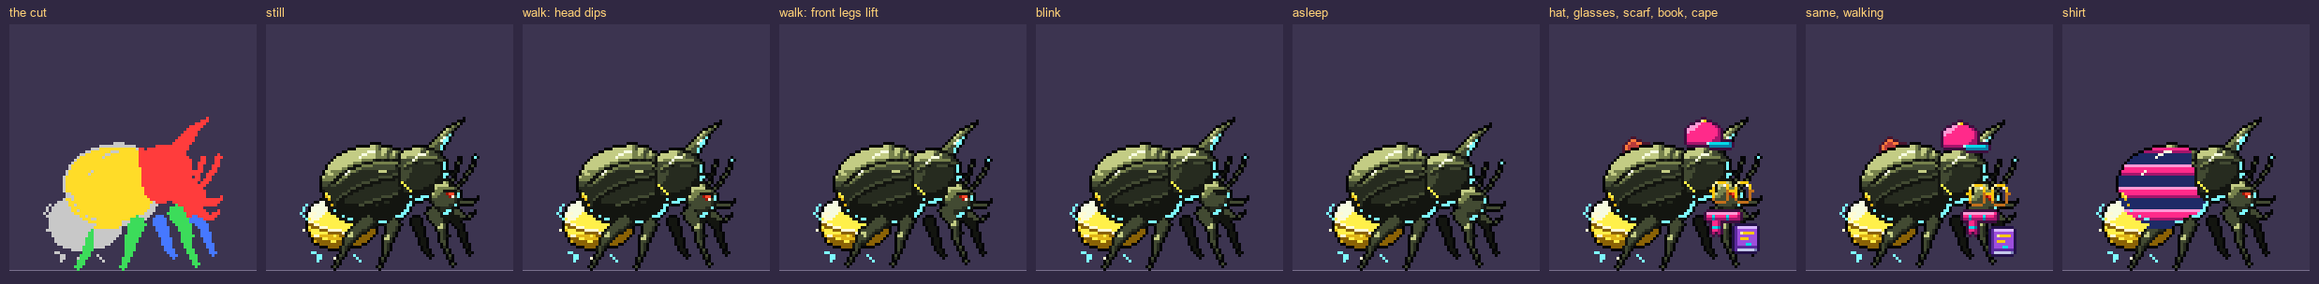
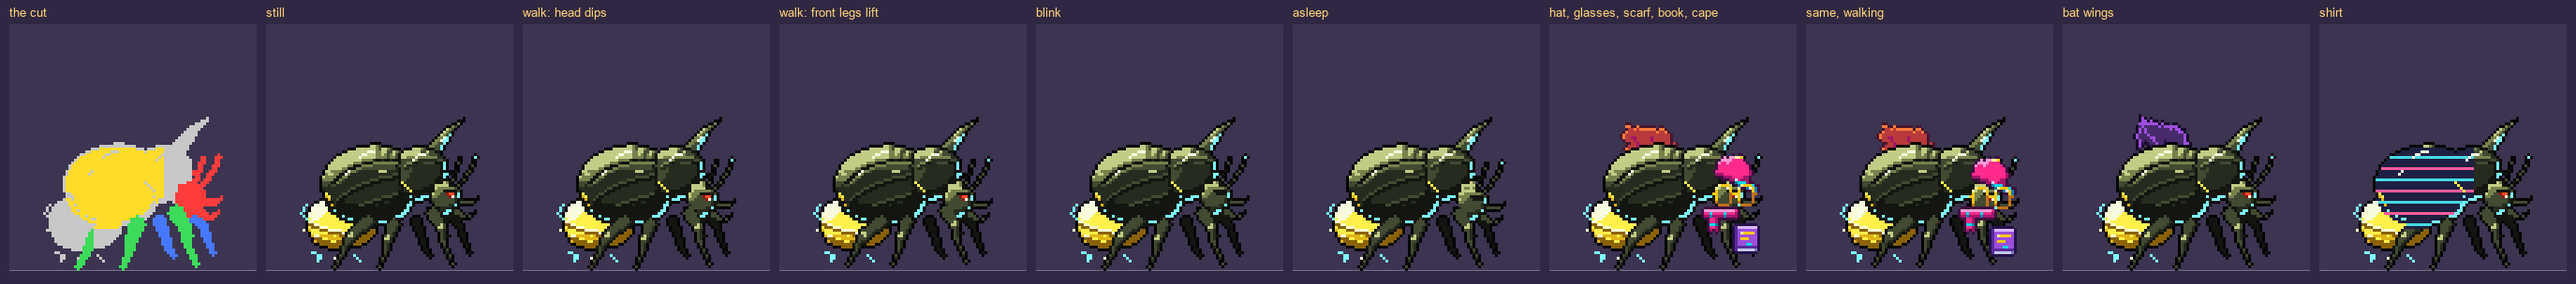
Creature game: the firefly's head is its real head; worn things can sit at an angle
The owner: "Certain items are weird on this guy, I want items to dynamically be able to be angled to fit well to
certain creatures bodies. It also seems like the game thinks that this guy's body is his head".
- Firefly (rig.json and rig_hatchling.json): the head was its whole front shell and horn; now it is the real head
  (eye, antennae, feelers), so it nods and blinks without the shell. Hat, face and neck moved onto it; the cap tilts
  forward 20 degrees; the back socket sits high on the shell (-15 degrees) so wings and capes show. Its shirt skips
  the front shell ("not"), so the shirt looks exactly as before.
- Sockets may carry an angle, [x, y, degrees] clockwise: render.turnPixels and beasts.py rotated() turn the item
  about its anchor, nearest pixel, identically (hashes checked in the browser); render.js caches each turned item
  and turns the item's shift with it.
- beasts.py underlay(): where the body is right above the head, body.png keeps the head's top 2 rows under it, so
  a dip shows no see-through gap (the firefly; 1-3 pixels on the axolotl, chick and dragon whelp).
- Preview sheet: a "bat wings" panel. RIG_GUIDE: real heads only, angles, back sockets high enough, shirt "not".
- The griffin's rig.json back to LF line endings (my last commit turned it CRLF).
- Test for turned items; HANDOFF and CHANGELOG notes.

diff --git a/web/js/game/render.js b/web/js/game/render.js
@@ -267,6 +267,51 @@ export function eggPicture(genome, size, cls = "cr-egg") {
   return c;
 }
 
+// ---------- turned items ----------
+// A socket may carry an angle ([x, y, degrees] in rig.json, clockwise): the item is turned that much about its anchor,
+// taking the nearest pixel so it stays crisp (the firefly's cap tilts forward with its head). Same as
+// tools/game_art/beasts.py rotated(), pixel for pixel.
+/** Pixels `src` ({width, height, data: RGBA}) turned `deg` degrees clockwise about pixel (ax, ay): {width, height,
+ * data, anchor}, square, with the anchor in the middle. */
+export function turnPixels(src, ax, ay, deg) {
+  const t = (deg * Math.PI) / 180;
+  const c = Math.cos(t), s = Math.sin(t);
+  const { width: w, height: h, data } = src;
+  let r = 0;
+  for (const x of [0, w]) for (const y of [0, h]) r = Math.max(r, Math.hypot(x - ax, y - ay));
+  r = Math.ceil(r);
+  const size = 2 * r + 1;
+  const out = new Uint8ClampedArray(size * size * 4);
+  for (let j = 0; j < size; j++) {
+    for (let i = 0; i < size; i++) {
+      const dx = i - r, dy = j - r;
+      const sx = Math.floor(ax + 0.5 + dx * c + dy * s), sy = Math.floor(ay + 0.5 - dx * s + dy * c);
+      if (sx < 0 || sy < 0 || sx >= w || sy >= h) continue;
+      const from = (sy * w + sx) * 4, to = (j * size + i) * 4;
+      for (let k = 0; k < 4; k++) out[to + k] = data[from + k];
+    }
+  }
+  return { width: size, height: size, data: out, anchor: [r, r] };
+}
+const turned = new Map(); // "src|anchor|deg" -> {pic, anchor}: each item turned once per angle
+function turnItem(img, anchor, deg) {
+  const key = `${img.src}|${anchor}|${deg}`;
+  if (!turned.has(key)) {
+    const c0 = document.createElement("canvas");
+    c0.width = img.width;
+    c0.height = img.height;
+    const x0 = c0.getContext("2d", { willReadFrequently: true });
+    x0.drawImage(img, 0, 0);
+    const p = turnPixels(x0.getImageData(0, 0, img.width, img.height), anchor[0], anchor[1], deg);
+    const pic = document.createElement("canvas");
+    pic.width = p.width;
+    pic.height = p.height;
+    pic.getContext("2d").putImageData(new ImageData(p.data, p.width, p.height), 0, 0);
+    turned.set(key, { pic, anchor: p.anchor });
+  }
+  return turned.get(key);
+}
+
 /**
  * Compose one frame of a creature. `look` comes from describe(genome); `pose` is
  *   {walk: 0-3, the walk cycle (0 and 2: both feet down; 1: the near legs lift and the head dips; 3: the far legs
@@ -322,7 +367,8 @@ export async function composeCreature(look, pose = {}) {
   const oy = oy0 - (pose.lift || 0) - float + dy;
   if (pose.act === "faint") ctx.globalAlpha = 1 - t;
   const put = (img, dy = 0) => { if (img) ctx.drawImage(img, ox, oy + dy); };
-  // Where a worn thing sits: its socket on this creature, moved by the item's own `shift` and `offset`.
+  // Where a worn thing sits: its socket on this creature, moved by the item's own `shift` and `offset`, and turned
+  // by the socket's angle if it has one (the nudge turns with it).
   const item = (slot, dy = 0) => {
     const img = worn[slot];
     if (!img) return;
@@ -330,8 +376,14 @@ export async function composeCreature(look, pose = {}) {
     const shift = (it && it.shift) || [0, 0];
     const a = b.baby ? shift.map((v) => Math.round(v * 0.75)) : shift; // the small item's own nudge
     const o = (it && it.offset && it.offset[look.size]) || [0, 0];
-    const [sx, sy] = b.sockets[slot];
-    ctx.drawImage(img, ox + sx - SLOTS[slot].anchor[0] + a[0] + o[0], oy + sy - SLOTS[slot].anchor[1] + a[1] + o[1] + dy);
+    const [sx, sy, deg = 0] = b.sockets[slot];
+    let pic = img, [ax, ay] = SLOTS[slot].anchor, [nx, ny] = [a[0] + o[0], a[1] + o[1]];
+    if (deg) {
+      ({ pic, anchor: [ax, ay] } = turnItem(img, SLOTS[slot].anchor, deg));
+      const t = (deg * Math.PI) / 180;
+      [nx, ny] = [Math.round(nx * Math.cos(t) - ny * Math.sin(t)), Math.round(nx * Math.sin(t) + ny * Math.cos(t))];
+    }
+    ctx.drawImage(pic, ox + sx - ax + nx, oy + sy - ay + ny + dy);
   };
   put(legsBack, -back);
   put(body);

diff --git a/web/js/game/beasts.js b/web/js/game/beasts.js
@@ -4,7 +4,7 @@
 // on its back: data.canWear), the hue of its body, and for its juvenile look (and `young`, its
 // hatchling look, drawn from rig_hatchling.json): its drawing's size and the box its pixels fill, how
 // high a floater hovers, which leg layers it has, whether it can wear a shirt, and where worn things
-// sit (in its drawing's pixels).
+// sit (in its drawing's pixels; a third number is an angle: the item turned that many degrees clockwise).
 export const BEASTS = [
   { id: "chick", name: "Phoenix chick", type: "ember", set: "original", plan: "biped", wings: true, hue: 29,
     size: [64, 64], box: [0, 1, 56, 62], hover: 0, legs: ["legs_back", "legs_front"], shirt: true,
@@ -53,9 +53,9 @@ export const BEASTS = [
     sockets: { hat: [47, 29], face: [49, 33], neck: [45, 41], held: [52, 52], back: [28, 48] } } },
   { id: "firefly", name: "Firefly beetle", type: "spark", set: "original", plan: "quad", hue: 80,
     size: [64, 64], box: [0, 7, 63, 61], hover: 0, legs: ["legs_back", "legs_front"], shirt: true,
-    sockets: { hat: [44, 18], face: [53, 34], neck: [50, 41], held: [58, 55], back: [28, 30] },
+    sockets: { hat: [53, 31, 20], face: [54, 35], neck: [49, 40], held: [58, 55], back: [30, 22, -15] },
     young: { size: [64, 64], box: [4, 26, 61, 63], hover: 0, legs: ["legs_back", "legs_front"], shirt: true,
-    sockets: { hat: [43, 31], face: [51, 44], neck: [47, 52], held: [57, 59], back: [27, 45] } } },
+    sockets: { hat: [50, 41, 20], face: [52, 45], neck: [46, 50], held: [57, 59], back: [27, 37, -15] } } },
   { id: "cat_ferret", name: "Cat-ferret", type: "spark", set: "cyberpunk", plan: "quad", hue: 42,
     size: [64, 64], box: [2, 4, 63, 60], hover: 0, legs: ["legs_back", "legs_front"], shirt: true,
     sockets: { hat: [53, 18], face: [57, 23], neck: [49, 34], held: [55, 50], back: [28, 42] },

diff --git a/tools/game_art/beasts.py b/tools/game_art/beasts.py
@@ -11,7 +11,10 @@ colour letters, `art`) and a rig.json that says how to cut it:
       "legs_front": polygon(s)  - the near legs, drawn in front; they lift a pixel on the walk's second step
       "blink": [{"at": [x, y], "rows": ["..44..", ...]}]  - pixels painted over the head for shut eyes ('.' = leave)
       "sockets": {"hat": [x, y], "face": [x, y], "neck": [x, y], "held": [x, y], "back": [x, y]},
+                                  - a socket may have a third number, an angle: [x, y, degrees], clockwise; the
+                                    item is turned about its anchor by that much (nearest pixel: rotated())
       "shirt": {"box": [x0, y0, x1, y1], "letters": "123"} or null  - which body pixels a shirt covers
+                                  (and "not": polygon(s) inside the box it leaves alone, if need be)
       "hover": 0                - pixels a floater stays off the ground
       "wings": true             - only for a creature drawn with wings of its own: it wears nothing on its back
                                   (data.canWear); leave it out otherwise
@@ -23,6 +26,10 @@ creature is a hatchling (game art in creature/beast/<id>/hatchling/).
 A polygon is a list of [x, y] corners in pixel units; a pixel belongs to it when its centre is inside.
 "head" etc. may also be a list of polygons.
 
+Where the body is right above the head (a beetle's head under its shell), body.png also keeps a copy of the head's
+top two rows there, under the head (underlay()): at rest the head covers it exactly; when the head dips, it fills
+the strip the head leaves, so there is no see-through gap.
+
     .venv/Scripts/python tools/game_art/beasts.py preview chick     its preview sheet (_rig_preview.png)
     .venv/Scripts/python tools/game_art/beasts.py build             every creature: game art + web/js/game/beasts.js
     .venv/Scripts/python tools/game_art/beasts.py build --aseprite  also the layered .aseprite sources
@@ -32,6 +39,7 @@ from __future__ import annotations
 
 import colorsys
 import json
+import math
 import subprocess
 import sys
 from pathlib import Path
@@ -49,6 +57,7 @@ SLOTS = {"hat": (10, 13), "face": (8, 4), "neck": (8, 1), "held": (6, 11), "back
 ORDER = ["ember", "tide", "grove", "spark", "stone", "dusk"]
 SETS = ["original", "cyberpunk", "fantasy"]
 LAYERS = ["body", "head", "legs_back", "legs_front"]
+DIP = 2  # the most the head dips, in pixels (asleep; 1 walking): render.js composeCreature
 
 
 def hexrgb(h: str) -> tuple[int, int, int]:
@@ -107,7 +116,42 @@ def cut(rig: dict, rows: list[str]) -> dict[str, dict[tuple[int, int], str]]:
                 if ch != ".":
                     blink[(x0 + dx, y0 + dy)] = ch
     layers["blink"] = blink
+    layers["under"] = underlay(layers)
     return layers
+
+
+def underlay(layers) -> dict[tuple[int, int], str]:
+    """The head's pixels that the body keeps a copy of, under the head: the top DIP rows of the head wherever the
+    body is right above it. When the head dips they fill the strip it leaves instead of a see-through gap."""
+    head, body = layers["head"], layers["body"]
+    out = {}
+    for (x, y) in head:
+        if (x, y - 1) in body:
+            for k in range(DIP):
+                if (x, y + k) in head:
+                    out[(x, y + k)] = head[(x, y + k)]
+    return out
+
+
+def rotated(im: Image.Image, anchor, deg: float):
+    """Item picture `im` turned `deg` degrees clockwise about its anchor pixel, taking the nearest pixel, so it
+    stays crisp. Returns (picture, its anchor). render.js turnPixels does the same, pixel for pixel."""
+    if not deg:
+        return im, tuple(anchor)
+    ax, ay = anchor
+    c, s = math.cos(math.radians(deg)), math.sin(math.radians(deg))
+    w, h = im.size
+    r = math.ceil(max(math.hypot(x - ax, y - ay) for x in (0, w) for y in (0, h)))
+    size = 2 * r + 1
+    out = Image.new("RGBA", (size, size), (0, 0, 0, 0))
+    src, dst = im.load(), out.load()
+    for j in range(size):
+        for i in range(size):
+            dx, dy = i - r, j - r
+            sx, sy = math.floor(ax + 0.5 + dx * c + dy * s), math.floor(ay + 0.5 - dx * s + dy * c)
+            if 0 <= sx < w and 0 <= sy < h:
+                dst[i, j] = src[sx, sy]
+    return out, (r, r)
 
 
 def shirt_mask(rig: dict, layers) -> set[tuple[int, int]]:
@@ -115,7 +159,9 @@ def shirt_mask(rig: dict, layers) -> set[tuple[int, int]]:
     if not s:
         return set()
     x0, y0, x1, y1 = s["box"]
-    return {p for p, ch in layers["body"].items() if ch in s["letters"] and x0 <= p[0] <= x1 and y0 <= p[1] <= y1}
+    skip = polys(s.get("not"))  # an area inside the box the shirt leaves alone (the firefly's front shell)
+    return {p for p, ch in layers["body"].items() if ch in s["letters"] and x0 <= p[0] <= x1 and y0 <= p[1] <= y1
+            and not any(inside(q, p[0] + 0.5, p[1] + 0.5) for q in skip)}
 
 
 def image(px: dict, pal: dict, w: int, h: int) -> Image.Image:
@@ -160,12 +206,13 @@ def compose(rig, layers, pal, w, h, *, step=0, bob=0, shut=False, items=None, sh
         im = items.get(slot)
         if im is None:
             return
-        ax, ay = SLOTS[slot]
-        put(im, ox + so[slot][0] - ax, oy + so[slot][1] - ay + dy)
+        sx, sy, *turn = so[slot]
+        im, (ax, ay) = rotated(im, SLOTS[slot], turn[0] if turn else 0)
+        put(im, ox + sx - ax, oy + sy - ay + dy)
 
     item("back")
     put(image(layers["legs_back"], pal, w, h), ox, oy)
-    body = image(layers["body"], pal, w, h)
+    body = image({**layers["under"], **layers["body"]}, pal, w, h)
     if shirt is not None:
         for (x, y) in shirt_mask(rig, layers):
             body.putpixel((x, y), shirt.getpixel((x % shirt.width, y % shirt.height)))
@@ -200,6 +247,7 @@ def preview(cid: str, form: str = "juvenile") -> Path:
         ("asleep", compose(rig, layers, pal, w, h, bob=2, shut=True)),
         ("hat, glasses, scarf, book, cape", compose(rig, layers, pal, w, h, items=dressed)),
         ("same, walking", compose(rig, layers, pal, w, h, items=dressed, step=1, bob=1)),
+        ("bat wings", compose(rig, layers, pal, w, h, items={"back": item(f"{s}back/bat_wings.png")})),
         ("shirt", compose(rig, layers, pal, w, h, shirt=item("shirt/striped.png"))),
     ]
     # the cut itself: head red, far legs blue, near legs green, shirt yellow
@@ -257,7 +305,8 @@ def write_form(cid: str, form: str, aseprite: bool, lua: list) -> dict:
     for name in ("body", "head", "blink", "legs_back", "legs_front"):
         path = folder / f"{name}.png"
         if layers[name] or name in ("body", "head", "blink"):
-            image(layers[name], pal, w, h).save(path)
+            px = {**layers["under"], **layers["body"]} if name == "body" else layers[name]  # (underlay(): under the head)
+            image(px, pal, w, h).save(path)
         elif path.exists():
             path.unlink()
     mask = shirt_mask(rig, layers)
@@ -273,7 +322,7 @@ def write_form(cid: str, form: str, aseprite: bool, lua: list) -> dict:
 
 
 def look_js(f: dict) -> str:
-    so = ", ".join(f"{k}: [{v[0]}, {v[1]}]" for k, v in f["sockets"].items())
+    so = ", ".join(f"{k}: [{', '.join(str(n) for n in v)}]" for k, v in f["sockets"].items())
     return (f'size: [{f["size"][0]}, {f["size"][1]}], box: [{", ".join(map(str, f["box"]))}], hover: {f["hover"]}, '
             f'legs: {json.dumps(f["legs"])}, shirt: {str(f["shirt"]).lower()},\n    sockets: {{ {so} }}')
 
@@ -297,7 +346,7 @@ def build(aseprite: bool) -> None:
              "// on its back: data.canWear), the hue of its body, and for its juvenile look (and `young`, its",
              "// hatchling look, drawn from rig_hatchling.json): its drawing's size and the box its pixels fill, how",
              "// high a floater hovers, which leg layers it has, whether it can wear a shirt, and where worn things",
-             "// sit (in its drawing's pixels).",
+             "// sit (in its drawing's pixels; a third number is an angle: the item turned that many degrees clockwise).",
              "export const BEASTS = ["]
     for e in entries:
         young = f"young: {{ {look_js(e['young'])} }}" if e["young"] else "young: null"

diff --git a/game/art-src-16bit/creatures/RIG_GUIDE.md b/game/art-src-16bit/creatures/RIG_GUIDE.md
@@ -12,13 +12,18 @@ Worn things sit on **sockets** (pixel coordinates in the 64x64 drawing).
     .venv/Scripts/python.exe tools/game_art/beasts.py preview <id>    -> creatures/<id>/_rig_preview.png
 
 The sheet shows: the cut (head red, far legs blue, near legs green, shirt area yellow, body grey), still,
-walk frames, blink, asleep, dressed (cap, round glasses, scarf, book, red cape) and a striped shirt.
+walk frames, blink, asleep, dressed (cap, round glasses, scarf, book, red cape), bat wings and a striped shirt.
 Worked example: `creatures/chick/rig.json`.
 
 Fields:
 - `art`: the final drawing file (e.g. `_ff2.txt`); `palette`: its full letter=hex string.
 - `head`: polygon(s) [[x,y],...]; a pixel belongs if its centre (x+0.5, y+0.5) is inside. Follow the neck
   line; include ears, horns, crest, beak/muzzle, head fur; leave out wings, body and tail pixels.
+  Only the real head: it is what dips and blinks, and hats sit on it. A beetle's head is the small part with
+  the eyes and antennae; the shell in front of its wing cases (the pronotum) and a horn on that shell are body
+  (the firefly was cut with its whole front shell as head until 2026-11-09). Where the body is right above the
+  head like that, the cutter keeps a hidden copy of the head's top edge in body.png, so the head can dip without
+  a see-through gap.
 - `legs_front` / `legs_back`: polygon(s) round the near / far legs below the body (or null). A floater or
   a legless blob: null for both.
 - `blink`: [{"at":[x,y], "rows":["..."]}], '.' = leave. Draw properly shut eyes with the creature's own
@@ -29,9 +34,16 @@ Fields:
   - `face`: centre of 16x8 glasses = between the eyes (3/4 face: a little toward the near eye);
   - `neck`: top-centre of a 16x10 collar/scarf = front of the neck where it meets the chest;
   - `held`: bottom-centre of a 12x12 held thing = the near hand/paw, or in front of the chest for a quad;
-  - `back`: the point a 20x20 cape/pack's anchor (14,19 of the item) rests on = middle of the back.
+  - `back`: the point a 20x20 cape/pack's anchor (14,19 of the item) rests on = middle of the back. The item
+    reaches up and back from there and is drawn behind the creature, so on a tall back put the socket near the
+    top of the back, or nothing shows (check the "bat wings" panel).
+  - Any socket may have a third number, an angle: `"hat": [53, 31, 20]` turns the item 20 degrees clockwise
+    (negative: anticlockwise) about its anchor, taking the nearest pixel so it stays crisp. Use it for a head that
+    leans (the firefly's cap tilts forward with its head) or a back that slopes. Keep it small: beyond about 30
+    degrees pixel art looks ragged.
 - `shirt`: {"box":[x0,y0,x1,y1], "letters":"..."} = which body pixels a shirt pattern covers (torso's main
-  coat letters inside the box; not wings, tail, head, legs, glows), or null if a shirt makes no sense.
+  coat letters inside the box; not wings, tail, head, legs, glows), or null if a shirt makes no sense. Add
+  `"not": polygon(s)` for an area inside the box the shirt leaves alone (the firefly's front shell).
 - `hover`: pixels a floater stays above the ground (0 for walkers).
 - `wings`: `true` for a creature drawn with wings of its own (leave it out otherwise). It then wears nothing
   on its back (no cape, pack or wings: the owner's rule), and the game reads it from here, so a new winged

diff --git a/HANDOFF.md b/HANDOFF.md
@@ -6241,6 +6241,18 @@ Sheet of all 18 with their picks: `game/art-src-16bit/creatures/_lineup_18_ff.pn
   wears nothing on its back; an egg wears a hat and any back item (`render.dressEgg`: the hat on its crown, a back item
   peeking out on its left, wings (items marked `wings: true`) as a mirrored pair). `rules.wearProblem` says why not
   ("egg" / "wings"); `buy` puts what doesn't fit in the bag, `equip` refuses it, and `normalize` takes it off on load.
+- **Angled items, the firefly's head** (2026-11-09; the owner: "I want items to dynamically be able to be angled to
+  fit well to certain creatures bodies. It also seems like the game thinks that this guy's body is his head"): a
+  socket may be `[x, y, degrees]` (clockwise), in rig.json and beasts.js; `render.turnPixels` / beasts.py `rotated()`
+  turn the item about its anchor, nearest pixel, the same pixel for pixel (checked with hashes in the browser);
+  render.js caches each turned item (`turnItem`) and turns the item's `shift` with it. The firefly's head was its
+  whole front shell and horn; now it is the real head (eye, antennae, feelers): hat [53, 31, 20], face [54, 35],
+  neck [49, 40], back [30, 22, -15] (baby: [50, 41, 20], [52, 45], [46, 50], [27, 37, -15]); its shirt skips the
+  front shell (`"shirt": {"not": ...}`), so the shirt looks as before. beasts.py `underlay()`: where the body is
+  right above the head, body.png keeps the head's top 2 rows under it, so a dip shows no gap (firefly; 1-3 pixels
+  on the axolotl, chick and dragon whelp). The preview sheet has a "bat wings" panel. Back items still hide behind
+  the Moss boulder, Crystal golem, Treasure golem and Fluffball (and barely show on the axolotl): their back sockets
+  want moving up (follow-up).
 - **Not done / follow-ups**: mouths/expressions other than
   shut eyes aren't drawn (happy = eyes shut); capes mostly hide behind big wings (dragon, griffin, winged fox) and
   stand up a little on four-legged backs (the cape item's shape); habitat bubbles assume the drawing's full height.

diff --git a/CHANGELOG.md b/CHANGELOG.md
@@ -14,6 +14,7 @@ The app was called **Arabic Podcast Studio** until v0.8.0.
 
 ## Unreleased
 
+- **Improved:** The Firefly beetle's head is just its head now. Hats, glasses and scarves sit on its real head (the cap tilts forward with it), it nods and blinks without moving its whole shell, and wings or a cape on its back show above its shell. Things worn by a creature can now sit at an angle, to fit its body.
 - **New:** A YouTube video with a dubbed soundtrack in the language you're learning now plays that soundtrack by itself, for example the Arabic one of an English MrBeast video. A note under the captions says so, and YouTube's ⚙ → Audio track still takes you back to the original sound. *(desktop app and the phones; the web app can't reach into YouTube's player, so it still shows where to choose it)*
 - **Changed:** What a creature can wear now goes by where it's worn, so new creatures and new things follow the same rule. An egg wears a hat and **anything on its back** (a cape, a satchel, balloons and so on, not only wings; wings stick out on both sides). A creature with wings of its own (Phoenix chick, Dragon whelp, Thunder griffin and Winged fox) wears **nothing on its back**, not only no wings. What it can't wear stays in your bag for another creature.
 - **Changed:** Battle questions always show a card's meaning, in your own language, and the four choices are always words in the language you're learning. Before, about two questions in three were the other way round. A word whose meaning is just the word itself isn't asked.

diff --git a/web/changelog.md b/web/changelog.md
@@ -14,6 +14,7 @@ The app was called **Arabic Podcast Studio** until v0.8.0.
 
 ## Unreleased
 
+- **Improved:** The Firefly beetle's head is just its head now. Hats, glasses and scarves sit on its real head (the cap tilts forward with it), it nods and blinks without moving its whole shell, and wings or a cape on its back show above its shell. Things worn by a creature can now sit at an angle, to fit its body.
 - **New:** A YouTube video with a dubbed soundtrack in the language you're learning now plays that soundtrack by itself, for example the Arabic one of an English MrBeast video. A note under the captions says so, and YouTube's ⚙ → Audio track still takes you back to the original sound. *(desktop app and the phones; the web app can't reach into YouTube's player, so it still shows where to choose it)*
 - **Changed:** What a creature can wear now goes by where it's worn, so new creatures and new things follow the same rule. An egg wears a hat and **anything on its back** (a cape, a satchel, balloons and so on, not only wings; wings stick out on both sides). A creature with wings of its own (Phoenix chick, Dragon whelp, Thunder griffin and Winged fox) wears **nothing on its back**, not only no wings. What it can't wear stays in your bag for another creature.
 - **Changed:** Battle questions always show a card's meaning, in your own language, and the four choices are always words in the language you're learning. Before, about two questions in three were the other way round. A word whose meaning is just the word itself isn't asked.
